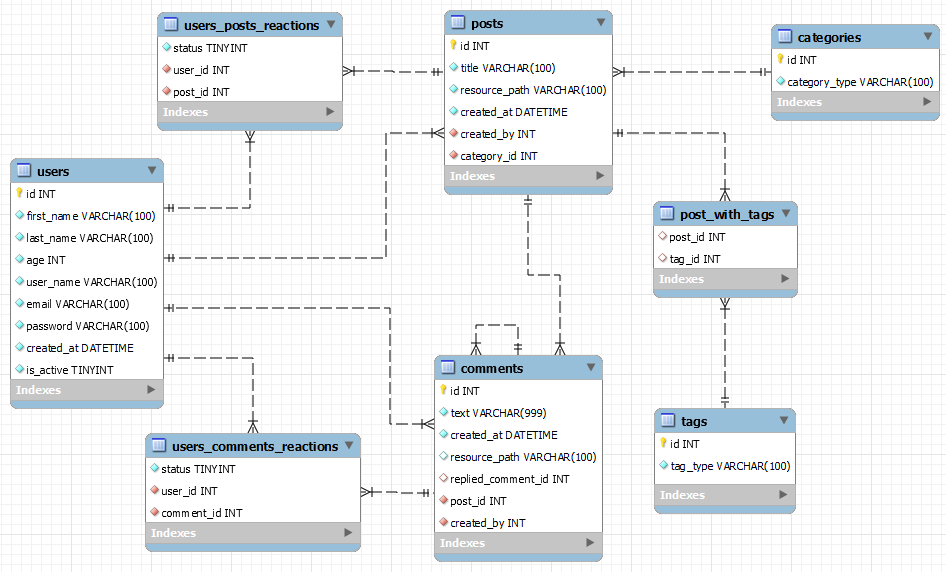
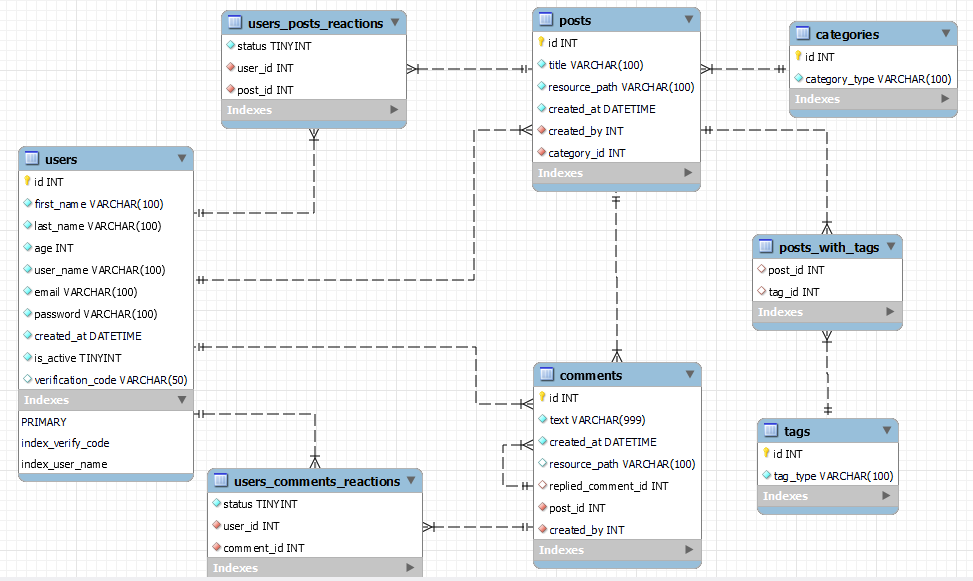
minor fixes

diff --git a/src/main/java/com/ittalens/gag/services/UserService.java b/src/main/java/com/ittalens/gag/services/UserService.java
@@ -32,6 +32,10 @@ public class UserService {
     private final EmailSenderService emailSenderService;
 
     public void registerUser(RegisterUserDTO u) {
+        u.setUserName(u.getUserName().trim());
+        u.setPassword(u.getPassword().trim());
+        u.setRepeatedPassword(u.getRepeatedPassword().trim());
+
         if (!validateEmail(u.getEmail())) {
             throw new BadRequestException("email already exists.");
         }
@@ -42,6 +46,7 @@ public class UserService {
         if (!isUserNameFree(u.getUserName())) {
             throw new BadRequestException("Username already exists");
         }
+
         u.setRegisterDate(LocalDateTime.now());
         u.setActive(false);
         User user = mapper.map(u, User.class);

diff --git a/src/main/java/com/ittalens/gag/Application.java b/src/main/java/com/ittalens/gag/Application.java
@@ -5,11 +5,7 @@ import org.springframework.boot.SpringApplication;
 import org.springframework.boot.autoconfigure.SpringBootApplication;
 import org.springframework.boot.autoconfigure.security.servlet.SecurityAutoConfiguration;
 import org.springframework.context.annotation.Bean;
-import org.springframework.jdbc.core.JdbcTemplate;
-import org.springframework.mail.javamail.JavaMailSender;
-import org.springframework.mail.javamail.JavaMailSenderImpl;
 import org.springframework.security.crypto.bcrypt.BCryptPasswordEncoder;
-import org.springframework.security.crypto.password.PasswordEncoder;
 
 @SpringBootApplication(exclude = SecurityAutoConfiguration.class)
 public class Application {

diff --git a/src/main/java/com/ittalens/gag/model/repository/UserRepository.java b/src/main/java/com/ittalens/gag/model/repository/UserRepository.java
@@ -3,7 +3,6 @@ package com.ittalens.gag.model.repository;
 import com.ittalens.gag.model.entity.User;
 import org.springframework.data.jpa.repository.JpaRepository;
 import org.springframework.data.jpa.repository.Query;
-import org.springframework.data.repository.query.Param;
 
 import java.util.List;
 import java.util.Optional;
@@ -17,6 +16,5 @@ public interface UserRepository extends JpaRepository<User, Long> {
     Optional<User> findUserByUserName(String username);
 
     @Query(value = "SELECT * FROM users WHERE verification_code = ?1", nativeQuery = true)
-
     Optional<User> findByVerificationCode(String code);
 }
